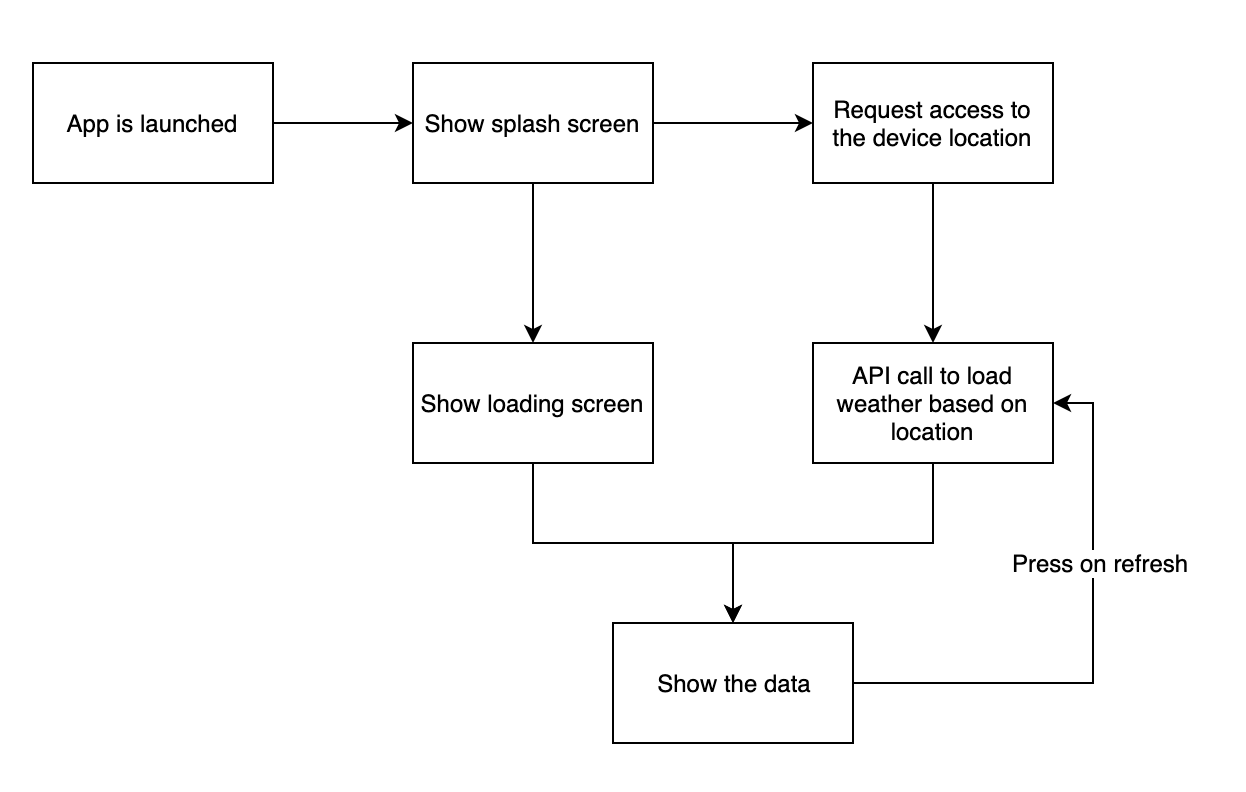
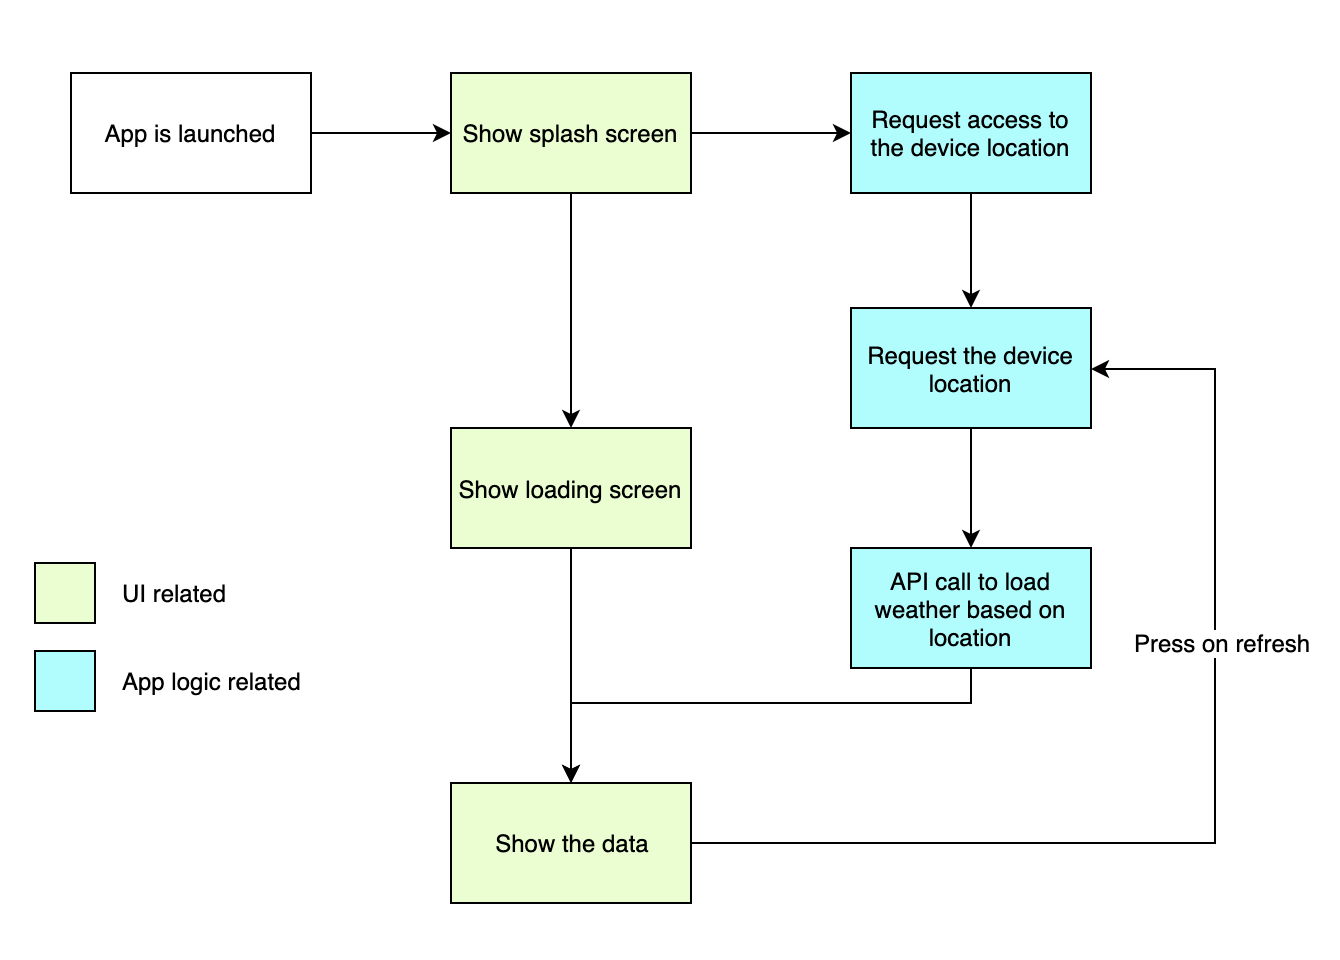
Update guide

diff --git a/docs/workshop/guide/guide_1.md b/docs/workshop/guide/guide_1.md
@@ -1,28 +1,33 @@
-# Starting notes
+# Introduction
 
-## Quick recap
-
-As mentionned React Native, like react and a few other framework out there is based on **components**. Those are responsible for a very specific part of the application and are then aggregated together in order to form the desired result.
+As mentionned React Native, like React and a few other framework out there is based on **components**. Those are responsible for a very specific part of the application and are then aggregated like Lego pieces in order to form the desired result.
 
 In the case of this application, we will be using the concept of **hooks** from React as data provider. From a very high level, hooks are like functions that expose a set of variables and/or function to the component using them. (Don't worry, the hooks needed for this application are provided, you won't have to write them 😉).
 
-The `develop` branch of the repository provides a squeleton of the application we will build as well as some components, hooks and other utility functions that we will explore during this exercise.
+>💡 The `develop` branch of the repository provides a squeleton of the application that we will build as well as some components, hooks and other utility functions that we will explore during this exercise.
 
-## Flow of the application
+# Third party framework used in this application
+
+In this application, we will be using [UI Kitten](https://akveo.github.io/react-native-ui-kitten/), a framework exposing a [design system](https://eva.design/?utm_source=eva_documentation&utm_medium=hero), [components](https://akveo.github.io/react-native-ui-kitten/docs/components/components-overview) and fully integrated with [Eva Icons](https://akveo.github.io/eva-icons/#/).
+
+
+# Flow of the application
 
 The flow of the application is pretty simple. See the following diagram for a clear picture of what we will be using.
 
-<div width="100%" style="display: flex; justify-content: center"><img src='../../assets/app_diagram.png' width="624px" height="386px" style="border: 1px solid; box-shadow: 0px 0px 10px #BBB"/></div>
+<div width="100%" style="display: flex; justify-content: center"><img src='../../assets/app_diagram.png' width="670px" height="480px" style="border: 1px solid; box-shadow: 0px 0px 10px #BBB"/></div>
 
-## Hooks
+We will maily focus on the UI related steps as the goal of this workshop isn't to teach you React/React native or how to pull out data from an API. The hooks that are part of this project are in charge of that. Let's have a quick look at those...
 
-2 hooks are provided for your convenience:
+# Hooks
+
+Two hooks are provided for your convenience:
 
 - `useLocation`: provides everything needed to retrieve the user's location as well as the last refresh date and a function to trigger a refresh of the location and thus the weather forecast. It also exposes some status that will be useful for the application. Mode details about this hook will follow.
 
 - `useForecast`: provides the mechanism to load the data as well as the formatted weather data themselves.
 
-### useLocation hook
+## useLocation hook
 
 Let's have a quick look at the interesting code inside this hook:
 
@@ -49,11 +54,15 @@ export const useLocation = () => {
 };
 ```
 
-This function is an asynchronous function that will first request authorisation to access the device location via Expo `askAsync(LOCATION)`. Once the access is granted by the user, we use Expo one more time to access the current position of the device `Location.getCurrentPositionAsync({})`. Once the location is found, it will save the timestamp of the the last access to the position (`setLastRefresh(Date.now)`) and the result of the positioning (`setLocation({ ...location })`).
+This function is an asynchronous function that will first request authorisation to access the device location via Expo `askAsync(LOCATION)`. 
+
+Once the access is granted by the user, we use Expo one more time to access the current position of the device `Location.getCurrentPositionAsync({})`. 
+
+Once the location is found, it will save the timestamp of the the last access to the position (`setLastRefresh(Date.now)`) and the result of the positioning (`setLocation({ ...location })`).
 
 > Note that we won't be interacting directly with this hook. It will be used internally by the `useForecast` hook describe below.
 
-### useForecast hook
+## useForecast hook
 
 Thia hook is the one responsible of fetching the data using the OpenWeather API. It uses the `useLocation` hook in order to get the coordinates for which the forecast should be loaded.
 
@@ -70,7 +79,9 @@ const getWeather = async (latitude: number, longitude: number) => {
 };
 ```
 
-This function does the actual call to the API. It uses the `API_KEY` that OpenWeather provided to you upon registration. It builds the URL that will be used to query this API. As you can see we will be using the position of the user together with this`API_KEY`. As you might have understood by now, the coordinates where retrived by the `useLocation` hook and passed to this one.
+This function does the actual call to the API. It uses the `API_KEY` that OpenWeather provided to you upon registration. It builds the URL that will be used to query this API. 
+
+As you can see we will be using the position of the user together with this`API_KEY`. As you might have understood by now, the coordinates where retrived by the `useLocation` hook and passed to this one.
 
 Once the data are loaded (yes of course it's asynchronous!) we will transform the raw forecast from the API into some more tailored structure for our app. The utility method `transformForecast` is in charge of that.
 
@@ -78,19 +89,6 @@ The transformed data are then "saved" together with the loading and refreshing f
 
 Our application will be accessing these data in order to react accordingly. More on that later...
 
-## 🗒 Your first task 
-### Copy your API key
-
-**Locate the `api_key.ts` file in the root of the project and replace the sample key by your own.**
-
-##### Where is your API key?
-
-> 💡You can find your API key in your profile on the [OpenWeather website](https://home.openweathermap.org/api_keys).
->
-> ![](../../assets/openweather_1.png)
->
-> ![](../../assets/openweather_2.png)
-
 ---
 
-Next: [Current state of our application ➤](./guide_2.md)
+Next: [Current state of our project ➤](./guide_2.md)

diff --git a/docs/workshop/guide/guide_2.md b/docs/workshop/guide/guide_2.md
@@ -1,1 +1,69 @@
-# Current state of our application
+# Current state of our project
+
+## The project structure
+
+<table>
+<tr>
+<td width="190px">
+<img src="../../assets/project_structure.png" height="800px" width="190px"/>
+</td>
+<td>
+<ul>
+<li><code>assets</code>: This folder contains the project assets such as the images, icons,... that we will use within the application. As you can see the project comes with folders containing backgrounds and icons. The <code>icon.png</code> and <code>splash.png</code> are used by React Native to know what's your application icon and the image to show when the application is launched (splash screen).</li><br>
+<li><code>components</code>: This folder will contain all the components that we will use in the project. At this point there is not much in those files but we will complete those in order to show what we want. The <code>base</code> folder is a folder containing some basic component that are all ready to be used by the others. You won't have to change those, except if you want to.</li><br>
+<li><code>hooks</code>: This folder contains the two hookks we just saw in the previous section, ready to be used by our application. Once again, you won't need to change anything in there, except if you know what you are doing.</li><br>
+<li><code>styles</code>: This folder contains the whole styling logic of the application. We will discuss a bit more about that in the future steps. For now, just know that the styles are defined for you and can easily be change if you desire. This is just purely CSS.</li><br>
+<li><code>utils</code>: This folder contains some utility functions that we will use later on in this workshop. We will discuss those as we will encounter their usage.</li><br>
+<li><code>api_key.ts</code>: This file is non existant in your version of the project. Creating this file and exposing your API key will be the first task you will tackle.</li><br>
+<li><code>App.tsx</code>: This file is the entry point of the application. It can simply contain the component forming the application or refer to more complex components that in turn will define our application. In this intro, we will mainly work in this file.</li><br>
+<li>The other files are automatically generated for you and are not part of this introduction workshop.</li>
+</ul>
+</td>
+</tr>
+</table><br>
+
+## 🗒 Your first task 
+### Setup your API key
+
+>**Create the `api_key.ts` file in the root of the project and copy the following:** 
+>
+```typescript
+export const API_KEY = '<YOUR_API_KEY>';
+```
+>
+
+💡 Check [where to find my API key](./api_key.md) if you haven't copied it somewhere.
+
+Once this is done it's time to run the application for the first time!
+
+## Running the application
+In order to run the application (either on your actual device or in a simulator) we will use the Expo CLI that you have installed before this workshop.
+
+Before that, let's make sure all the required dependencies are properly installed (step 3). This only needs to be run once so the next time you want to run the application, skip the step 3.
+
+1. Open your favorite shell application (Terminal, iTerm, ...)
+2. Navigate to the folder where you checked out the project
+3. Run the command `yarn` (This only needs to be run once so the next time you want to run the application, skip to the next step)
+4. Run the command `expo start`
+
+This last command will start a tunnel that the Expo client on your device (or simulator) will use to run the app. It will open a tool called the 'Metro Bundler' that allows you to follow what is happening behind the scenes.
+
+### Expo Metro Bundler
+
+![](../../assets/expo.png)
+
+### Expo client
+
+On your device, simply scan the QR code or launch the Expo client, login (if you didn't do it yet) and tap on the project that should be listed in the `Recently in development` section.
+
+You should see the following screen once everything is compiled and running on your device:
+
+<img src="../../assets/app/screen_1.png" width="400px"/>
+
+All right, that was easy! 
+
+You are all set to [start putting the application together](./guide_3.md)!
+
+---
+
+Next: [Adding some components in the application ➤](./guide_3.md)

diff --git a/docs/workshop/guide/guide_3.md b/docs/workshop/guide/guide_3.md
@@ -1,0 +1,38 @@
+# Adding some components in the application
+
+## The `App.tsx` file
+
+As mentionned before, this is the entry point of the application. It is written in typescript using the latest React paradigms. 
+
+* It uses the `useForecast` hook in order to pull out the data for the current location from the OpenWeather API.
+* It is written as a functional component
+
+>💡 The code contains some comment in order to make you understand what is happening.
+
+```typescript
+<>
+      {/* Add the icon registry to have access to all the EvaIcons. Available icons: https://akveo.github.io/eva-icons/#/*/}
+      <IconRegistry icons={EvaIconsPack} />
+      {/* Application provider for UI Kitten. See https://akveo.github.io/react-native-ui-kitten/ */}
+      <ApplicationProvider mapping={mapping} theme={lightTheme}>
+        <View style={ appStyles.container }>
+          {/* If the application is loading, show the device loader */}
+          { loading && <ActivityIndicator size="large" color="#FFF" /> }
+          {/* if the data are loaded, show the app */}
+            {!loading && forecast && (
+              <View style={{justifyContent:'center', alignItems:'center'}}>
+                <Text>Let's get started!</Text>
+              </View>
+            )}
+          </View>
+      </ApplicationProvider>
+    </>
+```
+
+Some tags in this code may get your attention. Those are not a standard HTML tag but is provided by React Native.
+
+* `View` represents a container (like a div in HTML) and will be transformed into the corresponding native element dependant of the platform.
+* `ActivityIndicator` will be transform into the corresponding platform loading indicator
+* `Text` that allows us to display texts in the application. 
+
+>💡 In React Native, even though looking very similar to HTML, you cannot simply add a string to display some text. All texts should be wrapped into this `Text` tag. It allows React Native to map this to the correct element displaying texts for the targeted platform running the application.

diff --git a/docs/README.md b/docs/README.md
@@ -18,3 +18,7 @@ The app that we will create will use the geolocation of the device and use it to
 The output of your work should look like this once it's complete:
 
 <div width="100%" style="display: flex; justify-content: center"><img src='./assets/appscreen-1.png' height="500"/></div>
+
+### Let's get started!
+
+We ca now [start working on the application](./workshop/intro.md)!

diff --git a/docs/workshop/guide/api_key.md b/docs/workshop/guide/api_key.md
@@ -1,0 +1,7 @@
+# Where is my API key?
+
+You can find your API key in your profile on the [OpenWeather website](https://home.openweathermap.org/api_keys).
+
+![](../../assets/openweather_1.png)
+
+![](../../assets/openweather_2.png)
